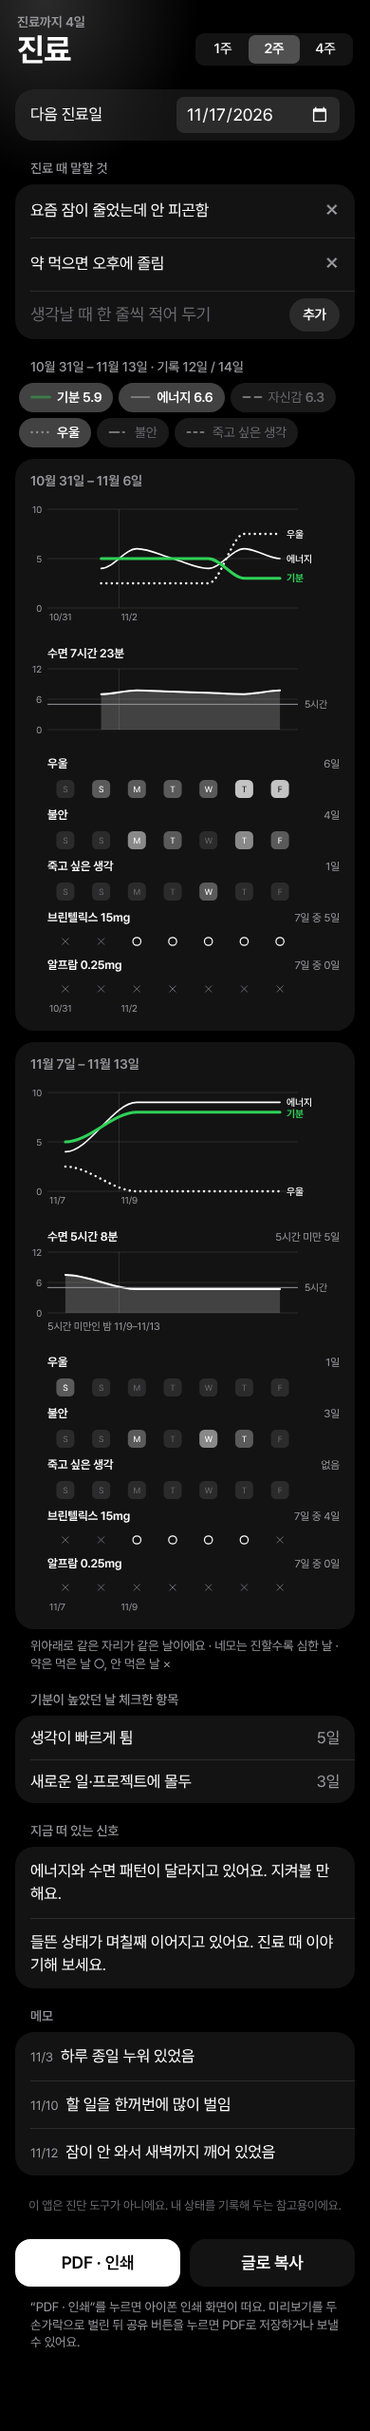
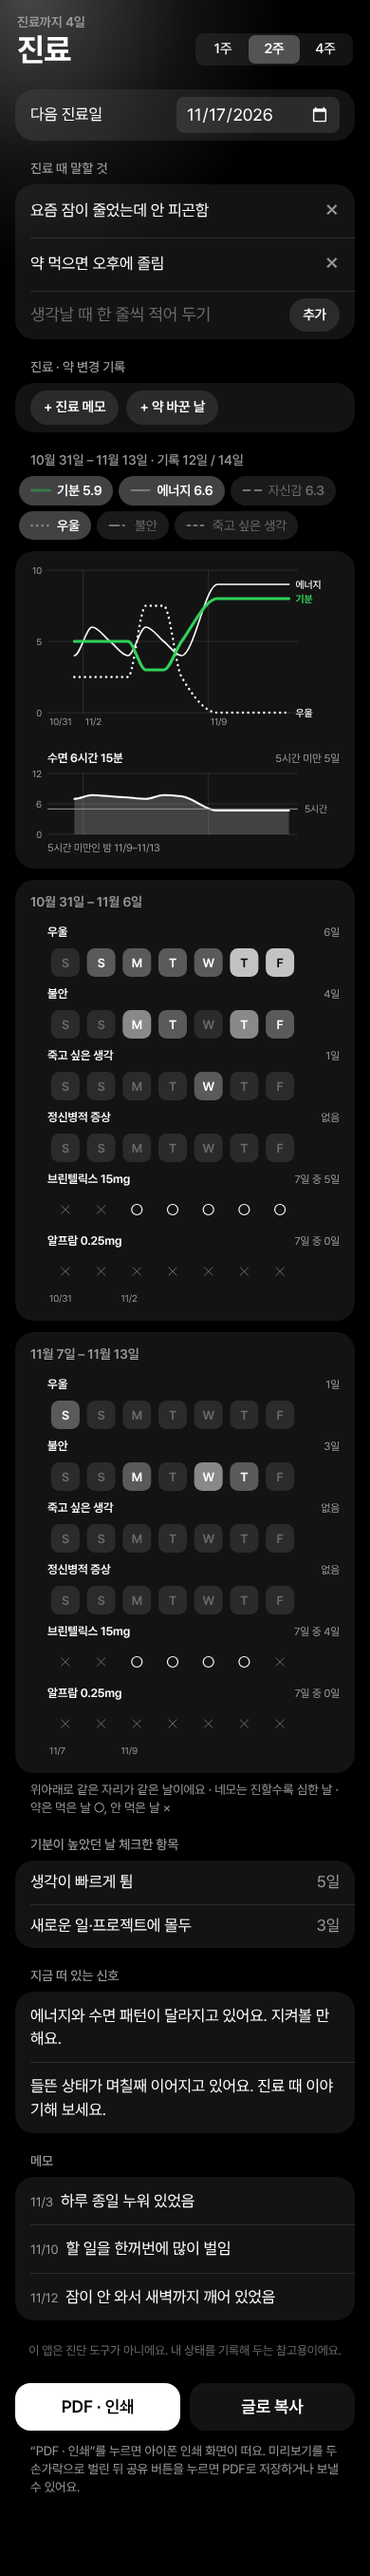
Tidemark: one chart across the whole period in the clinic view; no stray line in the 1-week chart
For 2 and 4 weeks the mood lines and sleep are drawn once across the whole period so the course is visible at a glance; the day-square and medication rows still stack one week per card below, where a day needs room to be read. The thin Monday divider is no longer drawn when a chart covers a single week, where it looked like an unexplained vertical line; it stays in multi-week charts to separate the weeks.

Claude-Session: https://claude.ai/code/session_01Du4KAy7crrN67i73oW7iBF

diff --git a/mood/js/views/clinic.js b/mood/js/views/clinic.js
@@ -90,7 +90,8 @@ function figures(s, width, SH, show) {
     if (right) out += `<text x="${width}" y="${y}" font-size="11.5" text-anchor="end" ${mutedText}>${right}</text>`;
   };
   // 주마다(월요일) 세로줄: 그림이 있는 칸 안에만 긋는다
-  const weekLines = (y1, y2) => marks.filter(Boolean).forEach((i) => {
+  // (한 주만 그릴 때는 긋지 않는다: 주 한가운데에 뜬금없는 세로줄로 보인다)
+  const weekLines = (y1, y2) => (n > 7 ? marks.filter(Boolean) : []).forEach((i) => {
     out += `<line x1="${(L + col * i).toFixed(1)}" x2="${(L + col * i).toFixed(1)}" y1="${y1}" y2="${y2}" style="stroke:var(--line)"/>`;
   });
   const dateLabels = (at) => marks.forEach((i) => {
@@ -212,23 +213,26 @@ function summaryRows(s) {
 function summaryHtml(weeks) {
   const s = summary(weeks);
   const width = Math.max(240, Math.min(app.clientWidth, 480) - 32 - 32);
-  // 그림은 한 주에 한 장씩 그린다 (하루 칸이 넓어야 읽힌다). 2주·4주는 같은 모양의 카드가 오래된 주부터 차례로 쌓인다.
-  const stack = (b) => {
-    const fig = figures(b, width, weeks > 1 ? 104 : 150, show);
-    return `<section class="card sum-stack">
-      ${weeks > 1 ? `<div class="sum-week">${md(parse(b.dates[0]))} – ${md(parse(b.dates[6]))}</div>` : ''}
-      ${toggles ? fig.chart : ''}${itemOn('sleep') ? fig.sleep : ''}${fig.rows}</section>`;
-  };
   // 큰 그래프의 선을 켜고 끄는 단추: 기분·에너지·자신감은 평균을 옆에 적는다
   const toggles = lineDefs().map(([key, name, max]) => `<button class="sum-tog" data-act="clinicLine" data-k="${key}" aria-pressed="${clinicView.lines.includes(key)}">${lineSample(key)}${name}${max === 10 && s[key] ? ` <b>${one(s[key].avg)}</b>` : ''}</button>`).join('');
   const show = { fx: s.fx.length > 0, custom: customDefs().filter((c) => s.got.some((e) => customLevel(c, (e.custom || {})[c.id]))) };
   const count = ([name, c]) => li(esc(name), F('{0}일', c));
+  // 그래프(선들과 수면)는 고른 기간 전체를 한 장에 그려서 한눈에 보이게 한다 (2주·4주를 주마다 쪼갰더니 흐름이 안 보인다고 함, 2026-11-13).
+  // 네모·○× 줄은 하루 칸이 넓어야 읽히니, 2주·4주에서는 그래프 아래에 한 주씩 카드로 쌓는다 (오래된 주부터).
+  const whole = figures(s, width, 150, show);
+  const graphs = `${toggles ? whole.chart : ''}${itemOn('sleep') ? whole.sleep : ''}`;
+  const weekRows = (b) => {
+    const { rows } = figures(b, width, 150, show);
+    return rows ? `<section class="card sum-stack"><div class="sum-week">${md(parse(b.dates[0]))} – ${md(parse(b.dates[6]))}</div>${rows}</section>` : '';
+  };
+  const cards = weeks === 1 ? `<section class="card sum-stack">${graphs}${whole.rows}</section>`
+    : `${graphs ? `<section class="card sum-stack">${graphs}</section>` : ''}${Array.from({ length: weeks }, (_, i) => weekRows(summary(1, (weeks - 1 - i) * 7))).join('')}`;
   const signs = s.signs.map(([name, c]) => li(esc(name), F('{0}일', c)));
   const says = (title, rows) => (rows.length ? `<div class="sec">${title}</div><section class="card list">${rows.join('')}</section>` : '');
   return `
     <div class="sec">${md(parse(s.dates[0]))} – ${md(parse(s.dates[s.dates.length - 1]))} · ${F('기록 {0}일 / {1}일', s.got.length, s.dates.length)}</div>
     ${toggles ? `<div class="sum-togs">${toggles}</div>` : ''}
-    ${Array.from({ length: weeks }, (_, i) => stack(summary(1, (weeks - 1 - i) * 7))).join('')}
+    ${cards}
     <p class="secnote">${T('위아래로 같은 자리가 같은 날이에요 · 네모는 진할수록 심한 날 · 약은 먹은 날 ○, 안 먹은 날 ×')}</p>
     ${says(T('기분이 높았던 날 체크한 항목'), signs)}
     ${itemOn('psy') ? says(T('정신병적 증상'), s.psych.map(count)) : ''}

diff --git a/mood/tests/smoke.js b/mood/tests/smoke.js
@@ -227,6 +227,7 @@ function seed() {
   check('다음 진료일까지 남은 날', (await text('.top .over')) === '진료까지 3일' && (await store()).clinic.next === dayAgo(-3));
   await page.click('[data-act=clinicWeeks][data-w="4"]');
   check('4주 요약', (await text('#summary')).includes('/ 28일'));
+  check('4주 요약: 그래프는 기간 전체를 한 장에, 네모 줄은 한 주씩 네 장', (await page.$$('.sum-fig')).length === 1 && (await page.$$('.sum-sleep')).length === 1 && (await page.$$('.sum-rows')).length === 4);
   await page.click('[data-act=clinicWeeks][data-w="1"]');
   check('1주 요약: 요일이 적힌 네모가 날마다 한 칸', (await text('#summary')).includes('/ 7일') && (await page.$$('.sum-rows rect')).length % 7 === 0 && (await page.$$('.sum-rows rect + text')).length > 0);
   await page.click('[data-act=clinicWeeks][data-w="4"]');

diff --git a/mood/sw.js b/mood/sw.js
@@ -1,7 +1,7 @@
 // 오프라인에서도 열리도록 앱 파일을 저장해 둔다.
 // 인터넷이 될 때는 항상 최신 파일을 먼저 받아오고, 안 될 때만 저장본을 쓴다.
 // 앱 파일을 바꿔서 올릴 때마다 CACHE 숫자를 하나 올린다. js/ 에 파일을 더하면 JS 목록에도 더한다.
-const CACHE = 'tide-v82';
+const CACHE = 'tide-v83';
 const JS = ['main', 'config', 'i18n', 'constants', 'store', 'dates', 'theme', 'icons', 'dom', 'state', 'meds', 'analysis', 'sample', 'files', 'render', 'swipe', 'lock',
   'views/today', 'views/trend', 'views/insight', 'views/record', 'views/settings', 'views/clinic', 'views/notes'];
 const FILES = ['./', 'index.html', 'app.css', 'manifest.webmanifest',

diff --git a/mood/js/config.js b/mood/js/config.js
@@ -3,4 +3,4 @@
 export const KEY = 'tide.v1', OLD_KEY = 'harugyeol.v1';
 
 // 설정 화면 맨 아래에 보이는 번호. 올릴 때마다 sw.js의 CACHE 숫자와 같이 하나 올린다.
-export const VERSION = 82;
+export const VERSION = 83;
